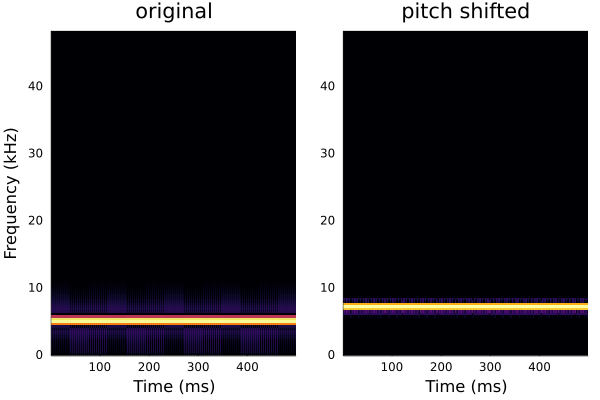
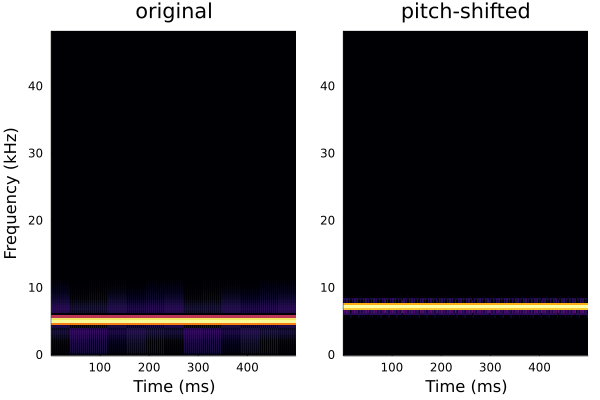
docs: add examples for pitchshift and timestretch

diff --git a/README.md b/README.md
@@ -121,22 +121,23 @@ plot!(signal(yburst, fs); legend=true, label="time-scale modified")
 
 ### Pitch shifting
 ```julia
-xps = pitchshift(WSOLA(256,128,hanning,10), x, 6; fs=fs)
+xps = pitchshift(WSOLA(256,128,hanning,10), x, 6)
 l = @layout [a b]
 p1 = specgram(signal(x, fs); legend=:none, title="original")
-p2 = specgram(signal(xps, fs); ylabel="", legend=:none, title="pitch shifted")
+p2 = specgram(signal(xps, fs); ylabel="", legend=:none, title="pitch-shifted")
 plot(p1, p2; layout=l)
 ```
 ![](docs/images/pitchshift-wsola-cw-spec.png)
 
+### Time stretching
 ```julia
-xps = pitchshift(PhaseVocoder(256,128,hanning,16,false,false,true), x, 6; fs=fs)
+xburstts = timestretch(PhaseVocoder(256,128,hanning,16,false,false,true), xburst, 3; fixlen=false)
 l = @layout [a b]
-p1 = specgram(signal(x, fs); legend=:none, title="original")
-p2 = specgram(signal(xps, fs); ylabel="", legend=:none, title="pitch shifted")
+p1 = specgram(signal(xburst, fs); legend=:none, title="original")
+p2 = specgram(signal(xburstts, fs); ylabel="", legend=:none, title="time-scaled")
 plot(p1, p2; layout=l)
 ```
-![](docs/images/pitchshift-phasevocoder-cw-spec.png)
+![](docs/images/timestretch-phasevocoder-burst-spec.png)
 
 ## Reference
 Driedger J, Müller M., "TSM Toolbox: MATLAB Implementations of Time-Scale Modification Algorithms", In DAFx, pp. 249-256. 2014.
